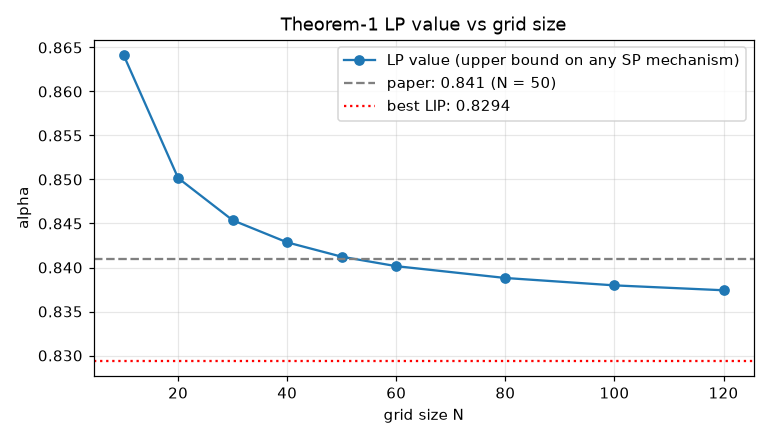
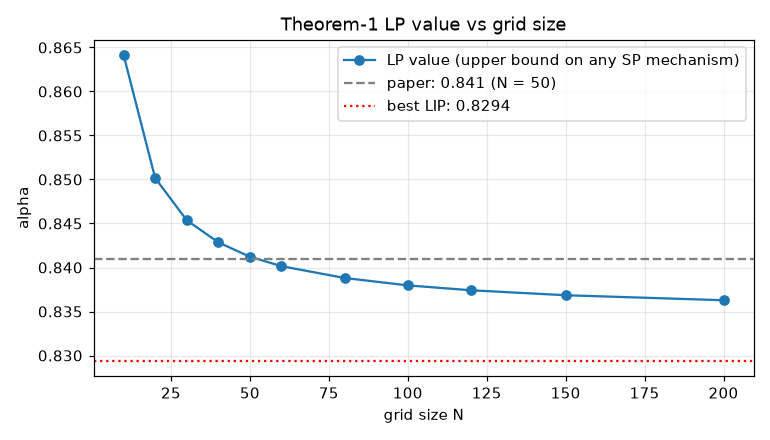
Propagate the N=200 LP value (0.83628, limit ~0.8345) to notebooks and docs

diff --git a/experiments/nb_00_overview.py b/experiments/nb_00_overview.py
@@ -37,7 +37,7 @@ price schedule $f(t)=at+b$, and gives the loser what is left.
 | LIP(2) | $\ge0.828$, $\le0.829$ | $\alpha(2)\in[0.8281462,0.8281472]$ (adaptive certified bracket) |
 | best LIP(a) | — | $a^\star=2.1013$, $\alpha^\star=0.82939$; $\alpha(a)=\min\{\theta(a),\beta(a)\}$ with $\beta$ in closed form |
 | any fixed-menu (swap-dictatorial, incl. all increasing-price) mechanism | — | **exactly $5/6=0.8333$**: four-line upper bound (Theorem A), attained by an explicit closed-form menu (Theorem C) |
-| any strategy-proof mechanism | $\le0.841$ (LP, $N=50$) | the LP value *decreases* with $N$: $\le0.8368$ ($N=150$), extrapolating to $\approx0.8346$; small explicit certificates |
+| any strategy-proof mechanism | $\le0.841$ (LP, $N=50$) | the LP value *decreases* with $N$: $\le0.8363$ ($N=200$), extrapolating to $\approx0.8345$; small explicit certificates |
 
 So the hierarchy is pinned down to within a percent: LIP $0.8294 <$ menus $= 0.8333 \le$ all SP $\lesssim 0.835$.
 
@@ -103,7 +103,7 @@ nb.md(r"""
 1. A strategy-proof mechanism approaching the SP-LP bound for $0<\varepsilon<1$: SMD closes
    part of the gap (0.900 vs 0.951 at $\varepsilon=\tfrac12$); the LP-optimal mechanisms use smooth,
    type-dependent pooling probabilities whose off-grid incentive compatibility is delicate.
-2. The limit of the Theorem-1 LP as $N\to\infty$ ($\approx0.8346$) in closed form, and whether a
+2. The limit of the Theorem-1 LP as $N\to\infty$ ($\approx0.8345$) in closed form, and whether a
    non-dictatorial mechanism beats $5/6$ in the additive model.
 3. Proving that LIP's worst case always lies on the edge or the anti-diagonal.
 4. Substitutes with free disposal (notebook 06 is only a sketch); three or more items with $\varepsilon$.

diff --git a/docs/partB_draft.tex b/docs/partB_draft.tex
@@ -22,8 +22,8 @@ $a<a^\star$ and $\theta$ for $a>a^\star$, where $a^\star\approx2.1013$ solves $\
 $\alpha^\star\approx0.82939>0.82815=\alpha(2)$.
 
 \paragraph{Theorem 1.} The LP of Theorem~1 is a valid upper bound for every grid size $N$, and its
-value decreases with $N$: $0.8412$ ($N=50$), $0.8380$ ($100$), $0.8368$ ($150$), extrapolating to
-$\approx0.8346$. The paper's $0.841$ is thus an artefact of $N=50$; LIP is closer to optimal than
+value decreases with $N$: $0.8412$ ($N=50$), $0.8380$ ($100$), $0.8368$ ($150$), $0.8363$ ($200$), extrapolating to
+$\approx0.8345$. The paper's $0.841$ is thus an artefact of $N=50$; LIP is closer to optimal than
 stated. Only about $N$ of the $(N+1)^2$ competitiveness constraints carry dual weight, and they lie on
 the edge $x=0$ and a segment parallel to the diagonal; eight well-chosen types already certify $0.8734$.
 

diff --git a/state.md b/state.md
@@ -12,7 +12,7 @@ Start reading at `notebooks/00_overview.ipynb`; all headline numbers with their 
 
 Additive model (eps = 0)
 - Replication: LP N=50 → 0.841225 (paper 0.841); LIP(2) ∈ [0.8281462, 0.8281472]; Figure 1.
-- The LP bound decreases with N (0.8368 at N=150, →≈0.8346): 0.841 is an N=50 artefact.
+- The LP bound decreases with N (0.8363 at N=200, →≈0.8345): 0.841 is an N=50 artefact.
 - a = 2 is not optimal: a* = 2.1013, alpha* = 0.82939; alpha(a) = min(theta(a), beta(a)),
   beta in closed form (theory/01).
 - **Theorem A**: any fixed-menu (swap-dictatorial, incl. all increasing-price) mechanism — in
@@ -38,7 +38,7 @@ Complementarity model (eps > 0), theory/02–04
 ## Open
 1. Closed-form SP mechanism approaching the LP bound for 0 < eps < 1 (gap 0.90 vs 0.95 at ½).
 2. Analytic proof that LIP's worst case lies on the edge or anti-diagonal.
-3. Limit of the Theorem-1 LP as N → ∞ (≈ 0.8346) in closed form.
+3. Limit of the Theorem-1 LP as N → ∞ (≈ 0.8345) in closed form.
 
 ## Code map
 `core/lip.py` (LIP, brackets), `core/lp.py` (SP-LP, SD-LP, split-menu LP), `core/eps.py`

diff --git a/docs/theory/03_price_of_dictatorship.md b/docs/theory/03_price_of_dictatorship.md
@@ -40,8 +40,8 @@ on the type set {0, ½, 1}, e.g. by the menu {(1,0), (½,½), (0,1)}.
   mixture of two one-sided rules is at most 5/6 ≈ 0.8333-competitive.
 - LIP(a*) achieves 0.82939 (certified), and the best menu mechanism is exactly 5/6
   (Theorem C): LIP is within 0.004 of the best possible dictatorial rule.
-- The LP over *all* strategy-proof mechanisms gives ≤ 0.8368 (N = 150; extrapolating to
-  ≈ 0.8346), strictly above 5/6. So the LP-optimal mechanisms must genuinely use both reports
+- The LP over *all* strategy-proof mechanisms gives ≤ 0.8363 (N = 200; extrapolating to
+  ≈ 0.8345), strictly above 5/6. So the LP-optimal mechanisms must genuinely use both reports
   jointly; any further improvement over LIP of more than 0.004 has to come from non-dictatorial
   designs.
 - 5/6 *is* attained on the continuous type space: see Theorem C below (closed-form menu). The

diff --git a/docs/results_summary.md b/docs/results_summary.md
@@ -6,7 +6,7 @@
 |---|---|---|
 | LIP(2) bracket | [0.8281462, 0.8281472] | lip_alpha_opt.json, nb 01 |
 | a*, alpha* | 2.1013, 0.82939 | lip_alpha_opt.json, nb 01 |
-| SP-LP by N | 10: 0.86415, 20: 0.85017, 30: 0.84537, 40: 0.84285, 50: 0.84123, 60: 0.84015, 80: 0.83881, 100: 0.83797, 120: 0.83741, 150: 0.83685 | lp_convergence_eps0.csv, nb 01 |
+| SP-LP by N | 10: 0.86415, 20: 0.85017, 30: 0.84537, 40: 0.84285, 50: 0.84123, 60: 0.84015, 80: 0.83881, 100: 0.83797, 120: 0.83741, 150: 0.83685, 200: 0.83628 | lp_convergence_eps0.csv, nb 01 |
 | fixed-menu optimum | 5/6 exactly (Theorems A, C) | theory/03, nb 04 |
 | Theorem-C menu discretised | 50 grid-menu: 0.81967, 100 grid-menu: 0.82645, 200 grid-menu: 0.82988, 300 grid-menu: 0.83102, 400 grid-menu: 0.83163, 600 grid-menu: 0.83218; closed-form menu 8001 items: 0.83328 | sd_continuum.csv, nb 04 |
 

diff --git a/README.md b/README.md
@@ -13,7 +13,7 @@ common complementarity parameter `eps`.
 
 Headline results (details and proofs in `docs/theory/`):
 
-* the paper's 0.841 upper bound is a grid artefact — the same LP gives ≤ 0.8368 at N = 150;
+* the paper's 0.841 upper bound is a grid artefact — the same LP gives ≤ 0.8363 at N = 200;
   LIP(2) is certified in [0.8281462, 0.8281472]; the best LIP parameter is a* ≈ 2.1013 (0.82939);
 * **every fixed-menu (swap-dictatorial / increasing-price) mechanism is at most 5/6-competitive,
   and 5/6 is attained** by an explicit menu (Theorems A, C);

diff --git a/docs/theory/01_additive.md b/docs/theory/01_additive.md
@@ -56,5 +56,5 @@ of ∂S/∂y away from the lines; plausible but not done).
 ## The LP upper bound depends on the grid
 
 The LP of Theorem 1 restricts types to {j/N}. Its value is an upper bound for every N and
-decreases with N (0.8429 at N = 40, 0.8412 at 50, 0.8380 at 100, 0.8374 at 120, ...). The
+decreases with N (0.8429 at N = 40, 0.8412 at 50, 0.8380 at 100, 0.8368 at 150, 0.8363 at 200; extrapolating to ≈ 0.8345). The
 paper's 0.841 is therefore just the N = 50 instance; see notebook 01 for the extrapolation.
